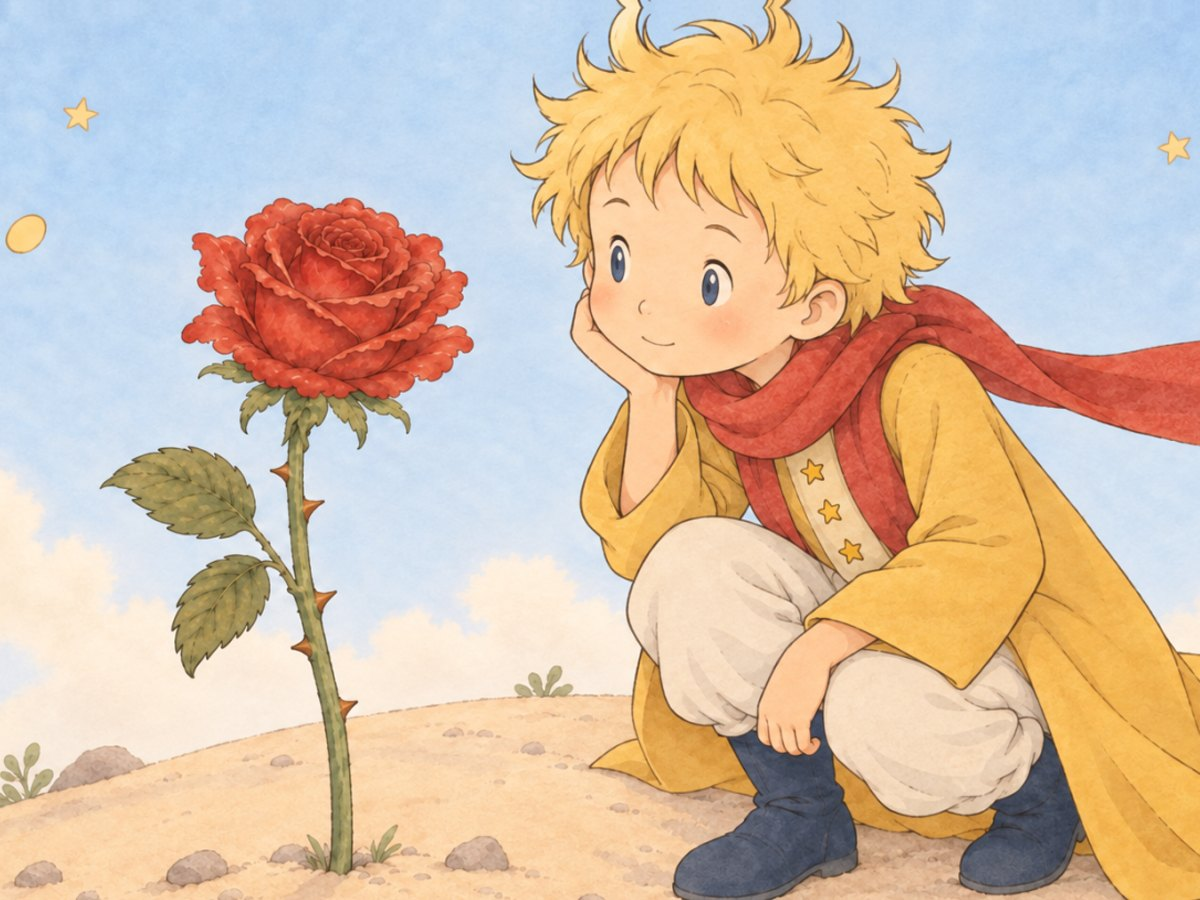
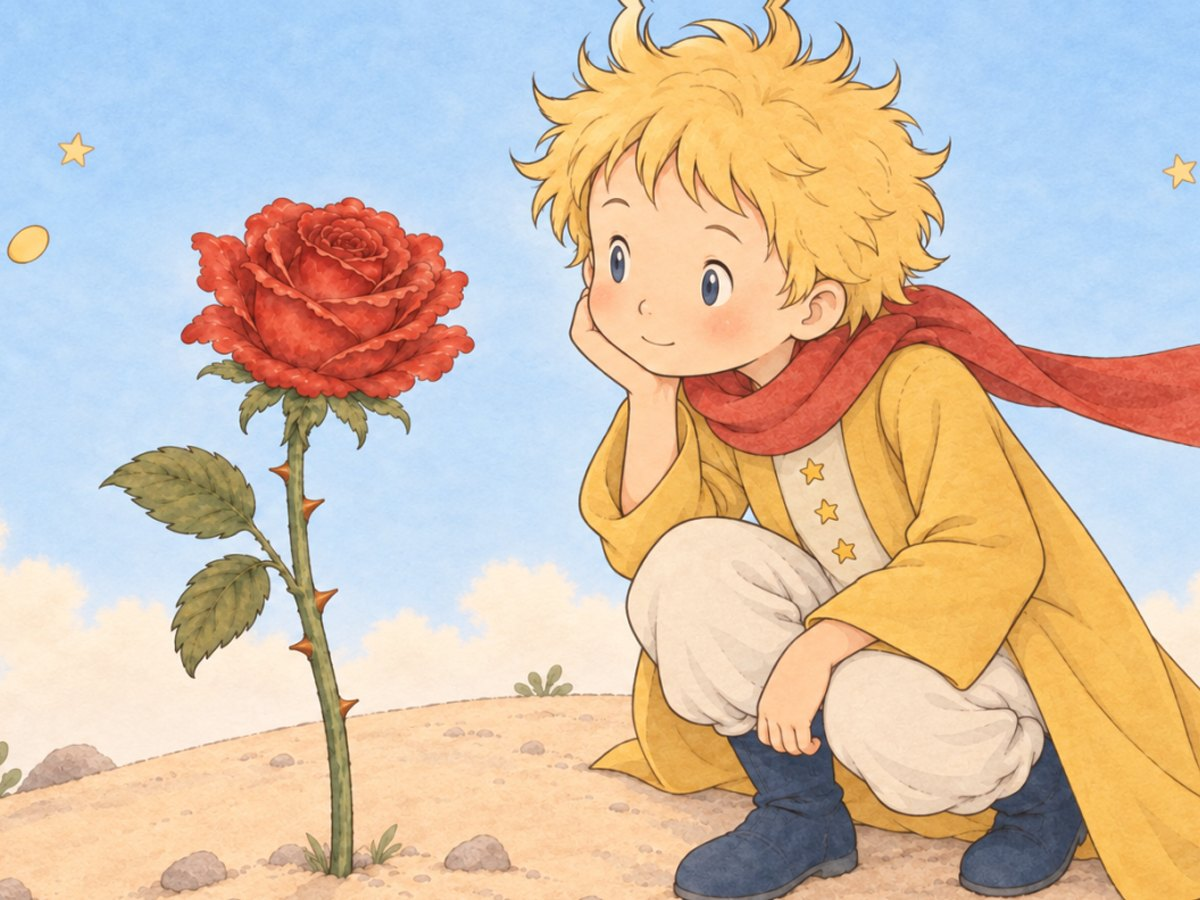
Little Prince outfit made consistent: the coat hangs open over the cream tunic with three star buttons in 11-f1, 15-f2, 24-f4, 26-f9, chapter-20 and 08-f3

diff --git a/books/little-prince/film/shots.js b/books/little-prince/film/shots.js
@@ -25,7 +25,7 @@ window.LP_FILM_SHOTS = {
   'chapter-17': { tone: 'desert-night', focus: [0.38, 0.46], prince: [0.38, 0.46], snake: [0.62, 0.69] },
   'chapter-18': { tone: 'desert-day', focus: [0.58, 0.26], prince: [0.58, 0.26], desertflower: [0.42, 0.63] },
   'chapter-19': { tone: 'day', focus: [0.22, 0.19], prince: [0.22, 0.19] },
-  'chapter-20': { tone: 'day', focus: [0.62, 0.53], prince: [0.62, 0.53], roses: [0.2, 0.55] },
+  'chapter-20': { tone: 'day', focus: [0.67, 0.53], prince: [0.67, 0.53], roses: [0.2, 0.55] },
   'chapter-21': { tone: 'sunset', focus: [0.34, 0.44], prince: [0.34, 0.44], fox: [0.75, 0.46] },
   'chapter-22': { tone: 'night', focus: [0.39, 0.42], prince: [0.39, 0.42], switchman: [0.52, 0.3] },
   'chapter-23': { tone: 'desert-day', focus: [0.36, 0.38], prince: [0.36, 0.38], merchant: [0.69, 0.21] },
